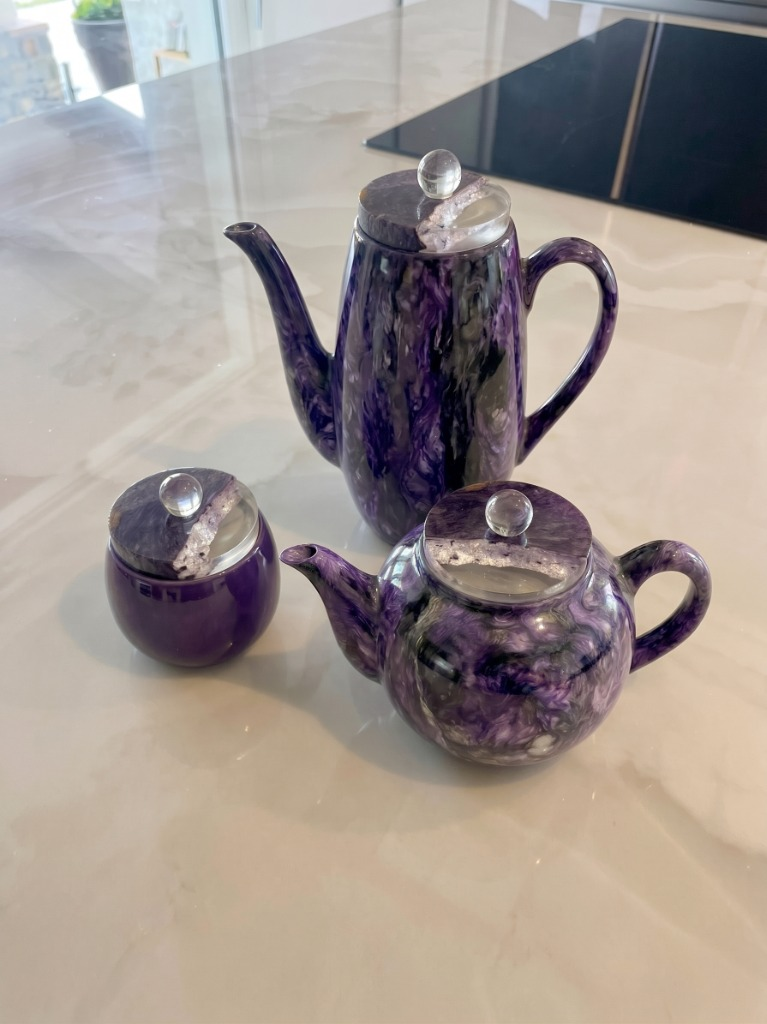
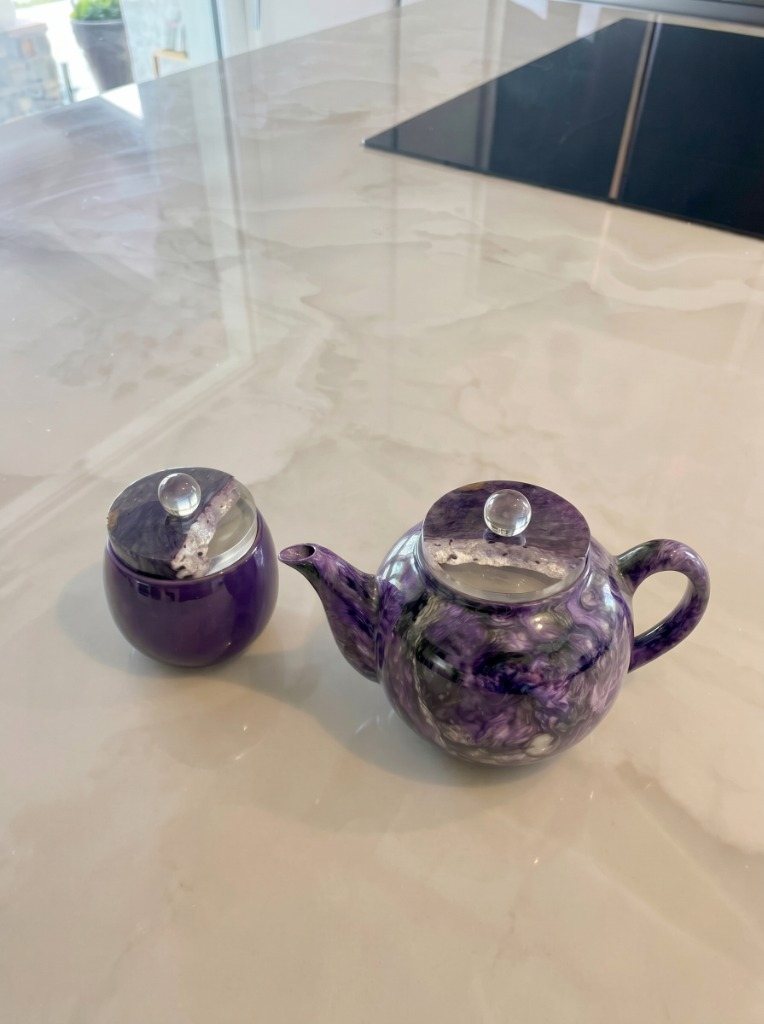
Revert contain backdrop and replace project #1 photo with 2-piece set (object-fit: cover)

diff --git a/ru/index.html b/ru/index.html
@@ -319,7 +319,7 @@
       <div class="work-track">
         <article class="work-card" data-pos="0">
           <div class="case">
-            <div class="case__media case__media--contain" style="background-image:url('/assets/img/project-circular.jpg')"><img src="/assets/img/project-circular.jpg" alt="Циклическая экономика: коллекция CHARA GEMSIT" /></div>
+            <div class="case__media"><img src="/assets/img/project-circular.jpg" alt="Циклическая экономика: коллекция CHARA GEMSIT" style="object-position:50% 62%" /></div>
             <div class="case__kicker"><i aria-hidden="true"></i> Циклическая экономика · RAG</div>
             <h3 class="case__title">Циклическая экономика: продуктовая концепция и AI-система знаний</h3>
             <p class="case__text">Исследовала возможности превращения производственных отходов в новую продуктовую линейку и координировала разработку внутренней RAG-системы для интеллектуального поиска по технической документации компании.</p>

diff --git a/assets/css/main.css b/assets/css/main.css
@@ -546,24 +546,14 @@ html[lang="ru"] .about__item p{hyphens:auto;-webkit-hyphens:auto;hyphenate-limit
   transition:transform .45s var(--ease-out),border-color .3s ease,box-shadow .45s var(--ease-out);
 }
 .case__media{
-  position:relative;aspect-ratio:16 / 10;width:100%;overflow:hidden;
+  aspect-ratio:16 / 10;width:100%;overflow:hidden;
   border-radius:14px;border:1px solid var(--line);
   background:var(--paper-soft);margin-bottom:4px;
 }
-.case__media--contain{
-  background-size:cover;background-position:center;
-}
-.case__media--contain::before{
-  content:"";position:absolute;inset:-16px;
-  background-image:inherit;background-size:cover;background-position:center;
-  filter:blur(22px) saturate(1.05);transform:scale(1.08);opacity:.78;
-}
 .case__media img{
-  position:relative;z-index:1;
   width:100%;height:100%;object-fit:cover;display:block;
   transition:transform .6s var(--ease-out);
 }
-.case__media--contain img{object-fit:contain}
 .case:hover .case__media img{transform:scale(1.03)}
 .case__kicker{display:flex;align-items:center;gap:10px;font-size:.6875rem;letter-spacing:.12em;text-transform:uppercase;color:var(--muted);font-weight:600;white-space:nowrap}
 .case__kicker i{width:22px;height:1.5px;background:var(--orange);display:block;flex:0 0 auto}

diff --git a/index.html b/index.html
@@ -319,7 +319,7 @@
       <div class="work-track">
         <article class="work-card" data-pos="0">
           <div class="case">
-            <div class="case__media case__media--contain" style="background-image:url('/assets/img/project-circular.jpg')"><img src="/assets/img/project-circular.jpg" alt="Circular Economy: CHARA GEMSIT collection" /></div>
+            <div class="case__media"><img src="/assets/img/project-circular.jpg" alt="Circular Economy: CHARA GEMSIT collection" style="object-position:50% 62%" /></div>
             <div class="case__kicker"><i aria-hidden="true"></i> Circular economy · Internal RAG</div>
             <h3 class="case__title">Circular Economy: Product Concept &amp; AI Knowledge System</h3>
             <p class="case__text">Researched opportunities to turn production waste into a new product line while coordinating the development of an internal RAG system for intelligent search across corporate technical documentation.</p>
